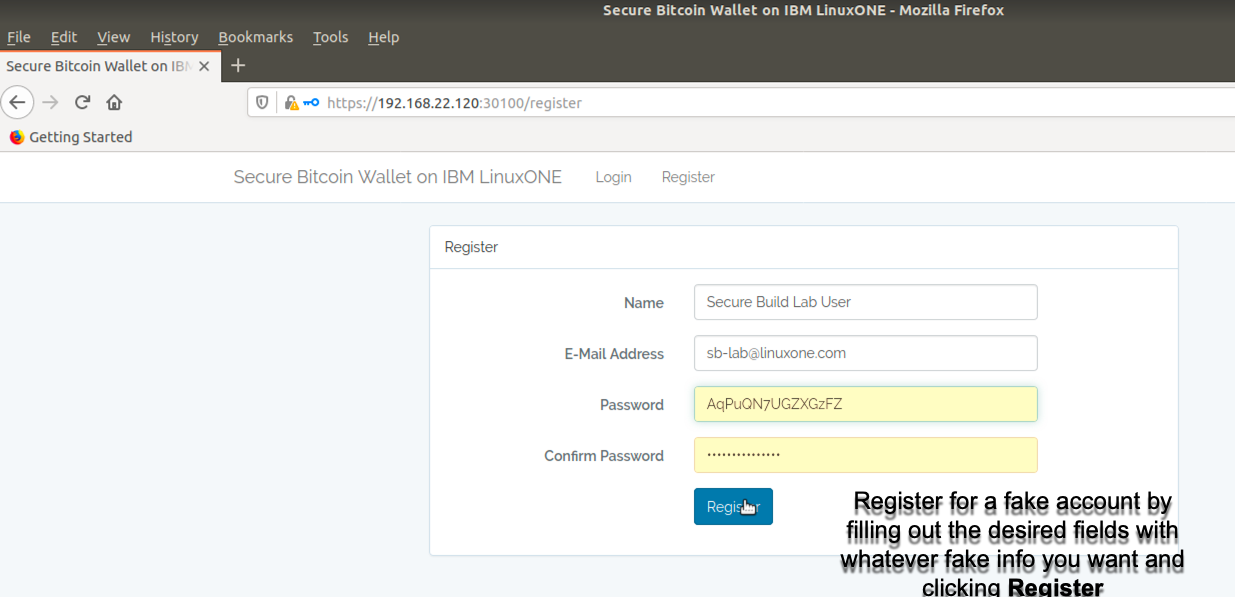
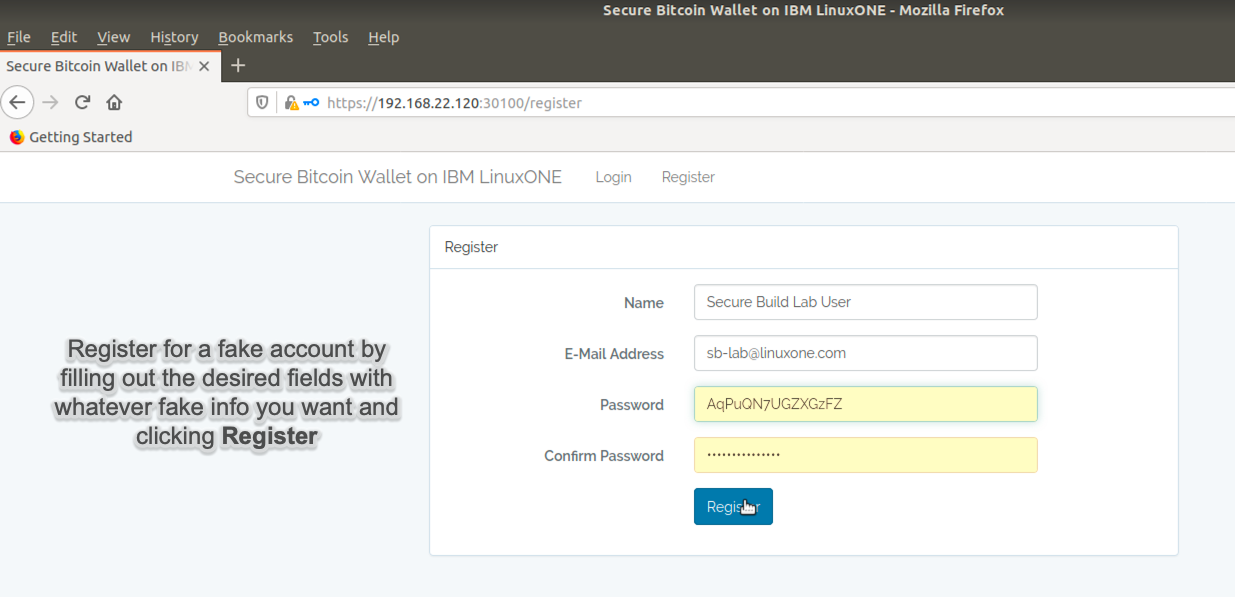
Closes #4; Added secure bitcoin wallet application instructions and documentation

Changed region(s): [[0.0308, 0.5729, 0.3385, 0.7839], [0.6769, 0.8141, 0.9846, 1.0]]

diff --git a/docs/securebuild-lab/bitcoin_wallet.md b/docs/securebuild-lab/bitcoin_wallet.md
@@ -1,23 +1,137 @@
-# Use your bitcoin wallet application
+# Welcome to the Secure Bitcoin Wallet on IBM LinuxONE
 
 ## Overview 
 
-This application is an secure Electrum Bitcoin wallet found at [this GitHub repository](https://github.com/IBM/secure-bitcoin-wallet){_target=blank}. You can use it to store the identities necessary to transact on the Bitcoin public blockchain network. While this version of the wallet is just a proof of concept, running this type of wallet on Hyper Protect enables you to protect your digital assets from bad actors such as malicious server administrators.
+This application is an secure [Electrum](https://electrum.org/#home){target=_blank} Bitcoin wallet found at [this GitHub repository](https://github.com/IBM/secure-bitcoin-wallet){target=_blank}. You can use it to store the identities necessary to transact on the Bitcoin public blockchain network. While this version of the wallet is just a proof of concept, running this type of wallet on Hyper Protect enables you to protect your digital assets from bad actors such as malicious server administrators.
 
 !!! info 
     This Electrum Bitcoin wallet functions regularly, while inheriting the security benefits of the Hyper Protect Virtual Server platform. This ensures that a legitimate version of the application is running (Secure Image Build process) and that administrators cannot compromise the application (Hyper Protect Virtual Server deployment).
 
-## Register a new user
+## Account Registration
 
-![User Registration](Bitcoin_Wallet_Images/Wallet_register_info.png)
+Registering a fake account for lab purposes.
 
-## Get currency from a bitcoin test faucet
+1. Choose `Register` since you won't have an existing account on the newly deployed server.
 
-Instead of transacting on the real bitcoin network we will use a testnet ()
-https://bitcoinfaucet.uo1.net/send.php
+    ![Secure Bitcoin Wallet Welcome](Bitcoin_Wallet_Images/Bitcoin_Wallet_Homepage.png)
 
+2. Enter the registration details you desire.
 
-## Send current back to the faucet
+    ![User Registration](Bitcoin_Wallet_Images/Wallet_register_info.png)
 
+    !!! Tip
+        Do not worry about the information you enter on the registration page (shown below) as it won't map to anything. You just need your password to log back in if you log out of the application.
 
+## Wallet initialization
+
+It's time to set up your Electrum Bitcoin wallet itself! :zap:
+
+1. Bring up the wallet screen
+
+    ![Wallet Start](Bitcoin_Wallet_Images/Click_Wallet_Start.png)
+
+2. Enter in a `password` for your wallet and click `Create Wallet`
+
+    ![Create Wallet](Bitcoin_Wallet_Images/Create_Wallet.png)
+
+3. Load your newly created wallet to enable it
+
+    ![Load Wallet](Bitcoin_Wallet_Images/Load_Wallet.png)
+
+4. Reload the page.
+
+    ![Initialized Wallet](Bitcoin_Wallet_Images/Reload_new_wallet.png)
+
+5. Your wallet is ready for use in all of its glory :angel:
+
+    ![Locked and Loaded Wallet](Bitcoin_Wallet_Images/Loaded_Wallet_Time.png)
+
+## Receiving Bitcoins
+
+A wallet without currency is blasphemy, so it's time to fill it on up with fake bitcoins. 
+
+1. Go to the `Receive` section of the wallet and get the bitcoin wallet address.  
+
+    ![Wallet receiving bitcoin](Bitcoin_Wallet_Images/Receiving_bitcoin.png)
+
+    !!! info
+        This is the address whose alloted bitcoins you lay claim to.
+
+2. Open [this bitcoin test faucet site](https://bitcoinfaucet.uo1.net/send.php){target=_blank} [click on the link] and use it to transfer bitcoin value to the `Receiving address` in your wallet **from step 1 above**.
+
+    ![Transfer Bitcoins](Bitcoin_Wallet_Images/Send_bitcoins_to_wallet.png)
+
+    !!! note
+        Instead of transacting on the "real" bitcoin blockchain network we are using a [testnet](https://medium.com/myetherwallet/understanding-blockchain-changes-testnets-and-mainnets-c2171a8e835f){target=_blank}. This means that the network participants agree that the assets on the network have no value. Testnets are used for testing changes to the network, testing applications and introducing new users to the technical aspects of network. There are testnets for many of the public blockchain networks including of course bitcoin and ethereum. Test faucets (like the one we are using) act as distributors of tokens to other users on the testnet.
+
+3. Switch back to your wallet tab and go to the `History` section and then reload the page.
+
+    ![Check History](Bitcoin_Wallet_Images/Check_History_Receive_Transaction.png)
+
+4. You should now see your wallet address as the recipient of a `pending transaction` from the bitcoin testnet faucet.
+
+    ![First Transaction History](Bitcoin_Wallet_Images/Transaction_History_no_confirmations.png)
+
+5. After clicking for more information you get a detailed transaction overview
+
+    ![Receive Transaction 0 Confirmations](Bitcoin_Wallet_Images/0_confirmations_block_details.png)
+
+    !!! info
+        The number of [confirmations](https://en.bitcoin.it/wiki/Confirmation){target=_blank} a block receives is the number of blocks deep the block that has included the blockchain transaction is. In other words, `1 confirmation` means that the current head block includes the transaction. `2 confirmations` means that the current head blocks parent block contains the transaction and so on. The deeper the transaction is (more confirmations it has) the more mining power it would take to "reverse history" and undo the transaction.
+
+    Since there are `0 confirmations` in the picture above, it means that the transaction is not yet included in a block. This is why it has no timestamp yet and it's block number is listed as `0`.
+
+6. After waiting anywhere from a minute to a few minutes (depending on the current testnet traffic) you should see a confirmation on your transaction.
+
+    !!! Tip
+        You will need to keep reloading the page for it to update. It doesn't update automatically.
+
+    ![1 Confirmation Received](Bitcoin_Wallet_Images/1_Confirmation_Received.png)
+
+    There is now a timestamp and a block number! :dollar:
+
+    !!! info
+        As time passes more confirmations will accumulate. You can check on the `confirmations` again at the end of the lab to show yourself this (Given enough time has passed for one or more additional confirmation(s) to occur).
+
+## Returning Bitcoins
+
+Since you are feeling charitable you decide to transfer your testnet value back to the faucet's address. 
+
+1. Go back to [the faucet site](https://bitcoinfaucet.uo1.net/send.php){target=_blank} and get it's bitcoin address
+
+    ![Faucet Address](Bitcoin_Wallet_Images/testnet_faucet_address.png)
+
+    !!! tip
+        This address is here for easy copy and paste:
+
+        ``` bash
+        2NGZrVvZG92qGYqzTLjCAewvPZ7JE8S8VxE
+        ```
+
+2. Send bitcoins to faucet using `Send` section of wallet
+
+    ![Send Bitcoins to Faucet](Bitcoin_Wallet_Images/Send_bitcoins_back_to_faucet.png)
+
+3. Once sent you will see the `Signed transaction` information filled out on your wallet page.
+
+    ![Bitcoins Sent Back to Faucet](Bitcoin_Wallet_Images/bitcoin_send_transaction_output.png)
+
+4. You can go back to the [bitcoin faucet site](https://bitcoinfaucet.uo1.net/send.php){target=_blank} and see the transaction as green there with a sender of your address and a transaction ID matching the one you sent.
+
+    ![Bitcoins returned to faucet](Bitcoin_Wallet_Images/transaction_giving_coins_back_to_faucet.png)
+
+5. You can view both the initial received transaction and the newly sent transaction in the `History` tab of your bitcoin wallet.
+
+    !!! info 
+        If you wait eventually these transactions will gain confirmations as in the picture below
+
+    ![Both transactions with 1 confirmation](Bitcoin_Wallet_Images/both_confirmed_transactions.png)
+
+6. You can continue to play around with the electrum wallet before moving on.
+
+7. Congratulations!!! 
+
+    You have participated in the bitcoin testnet using a securely built electrum bitcoin wallet powered by a Hyper Protect Virtual Server. 
+
+    :rocket: 
 
